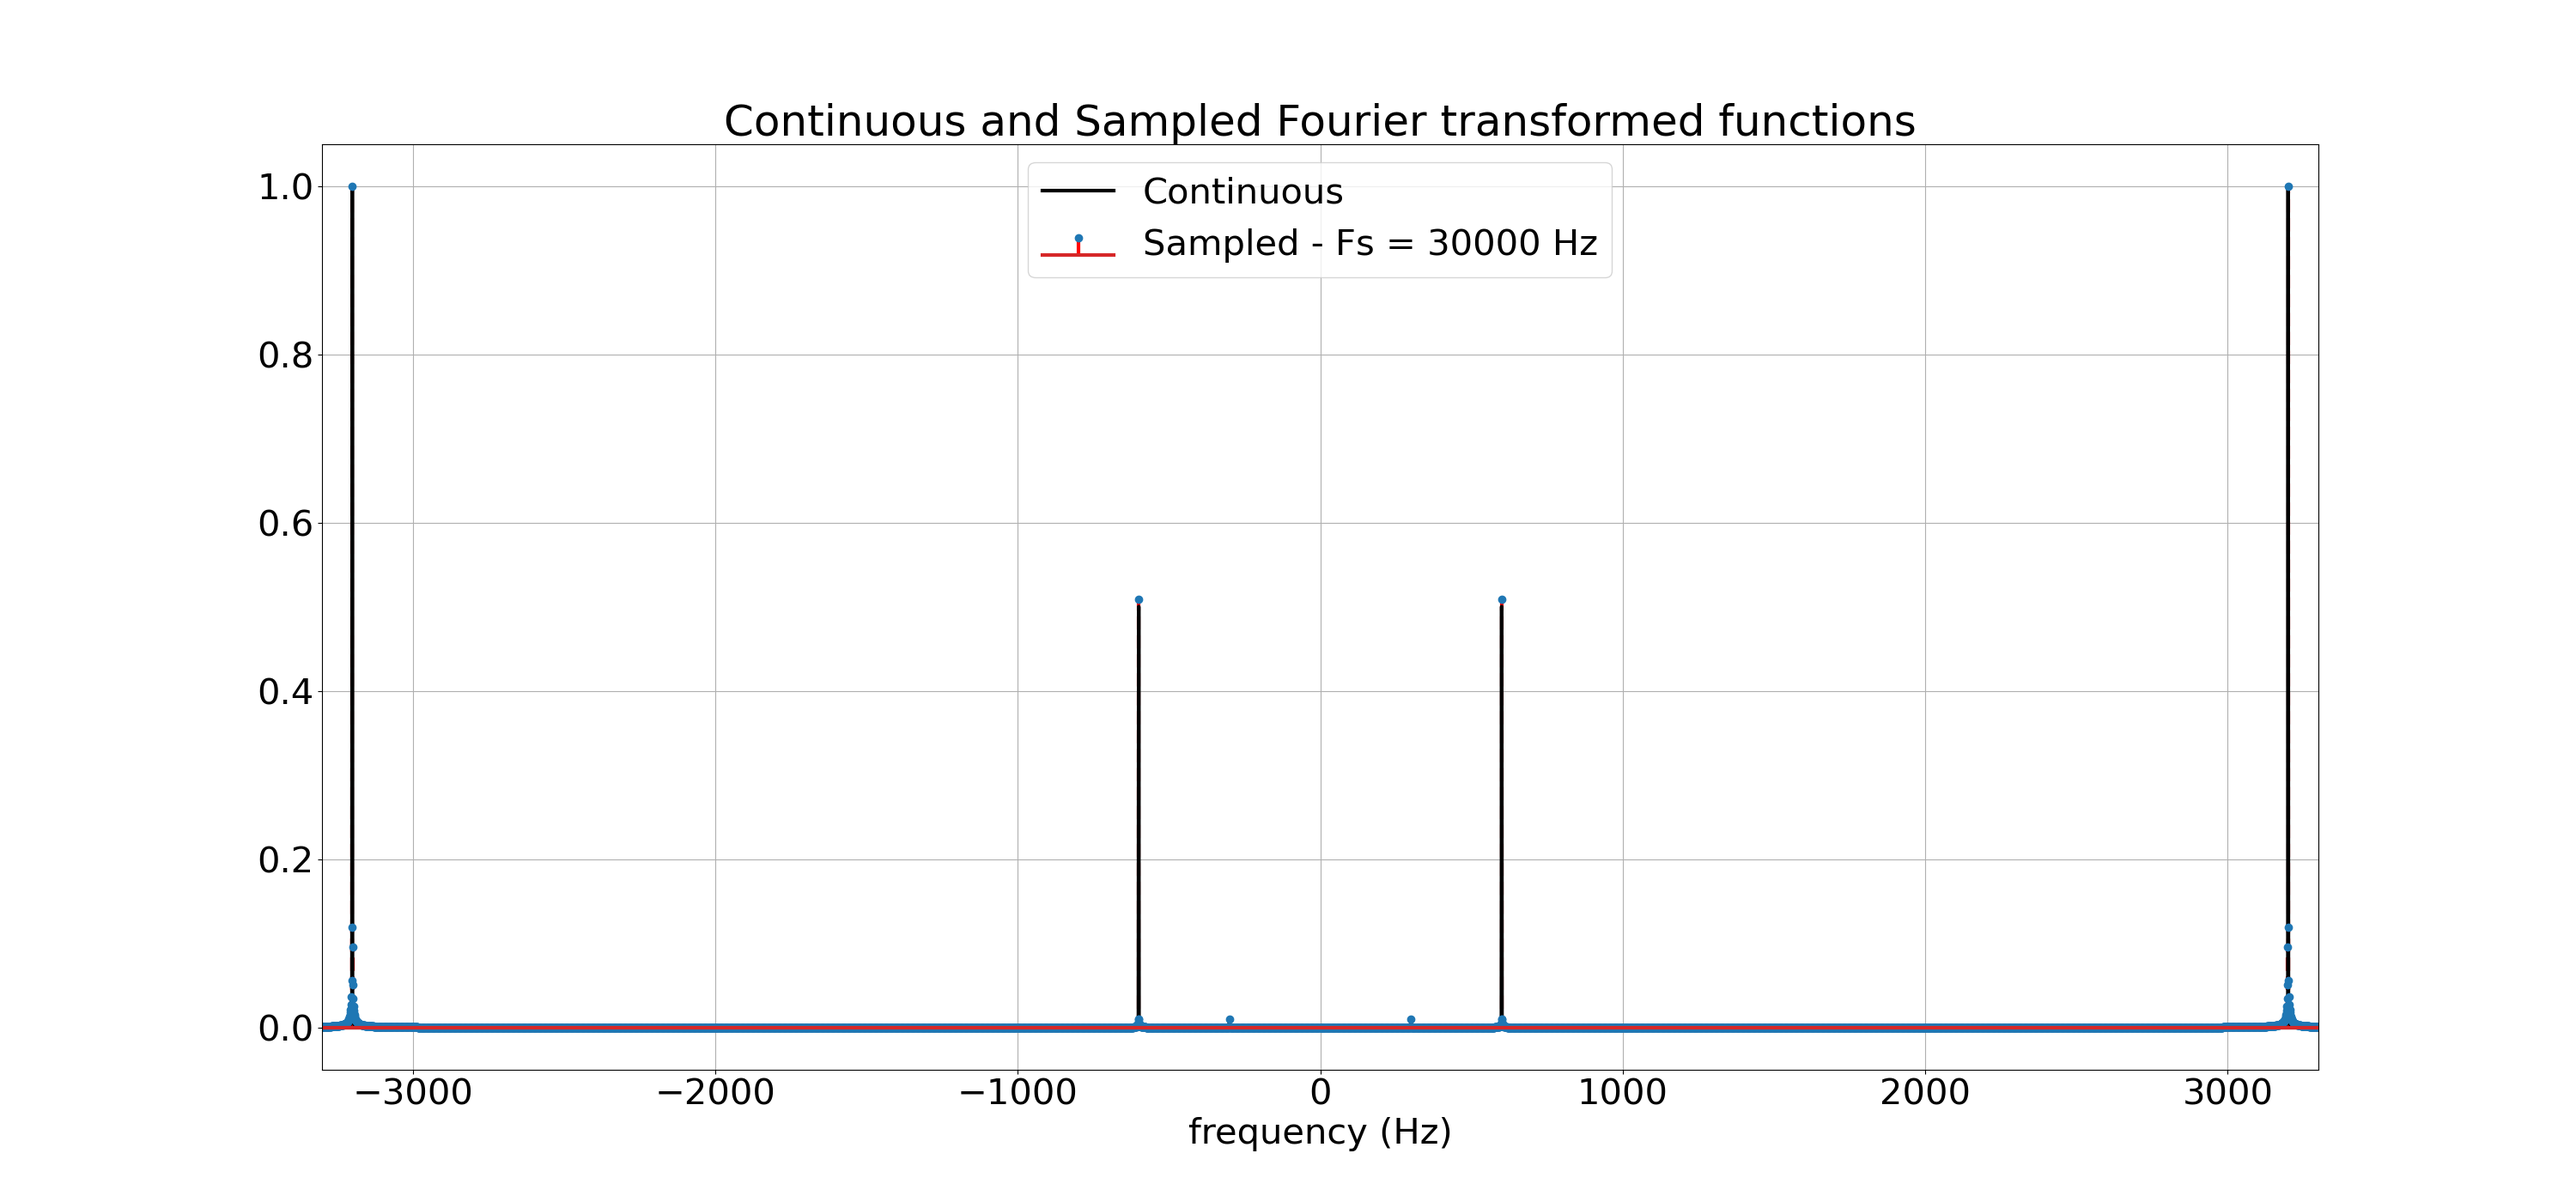
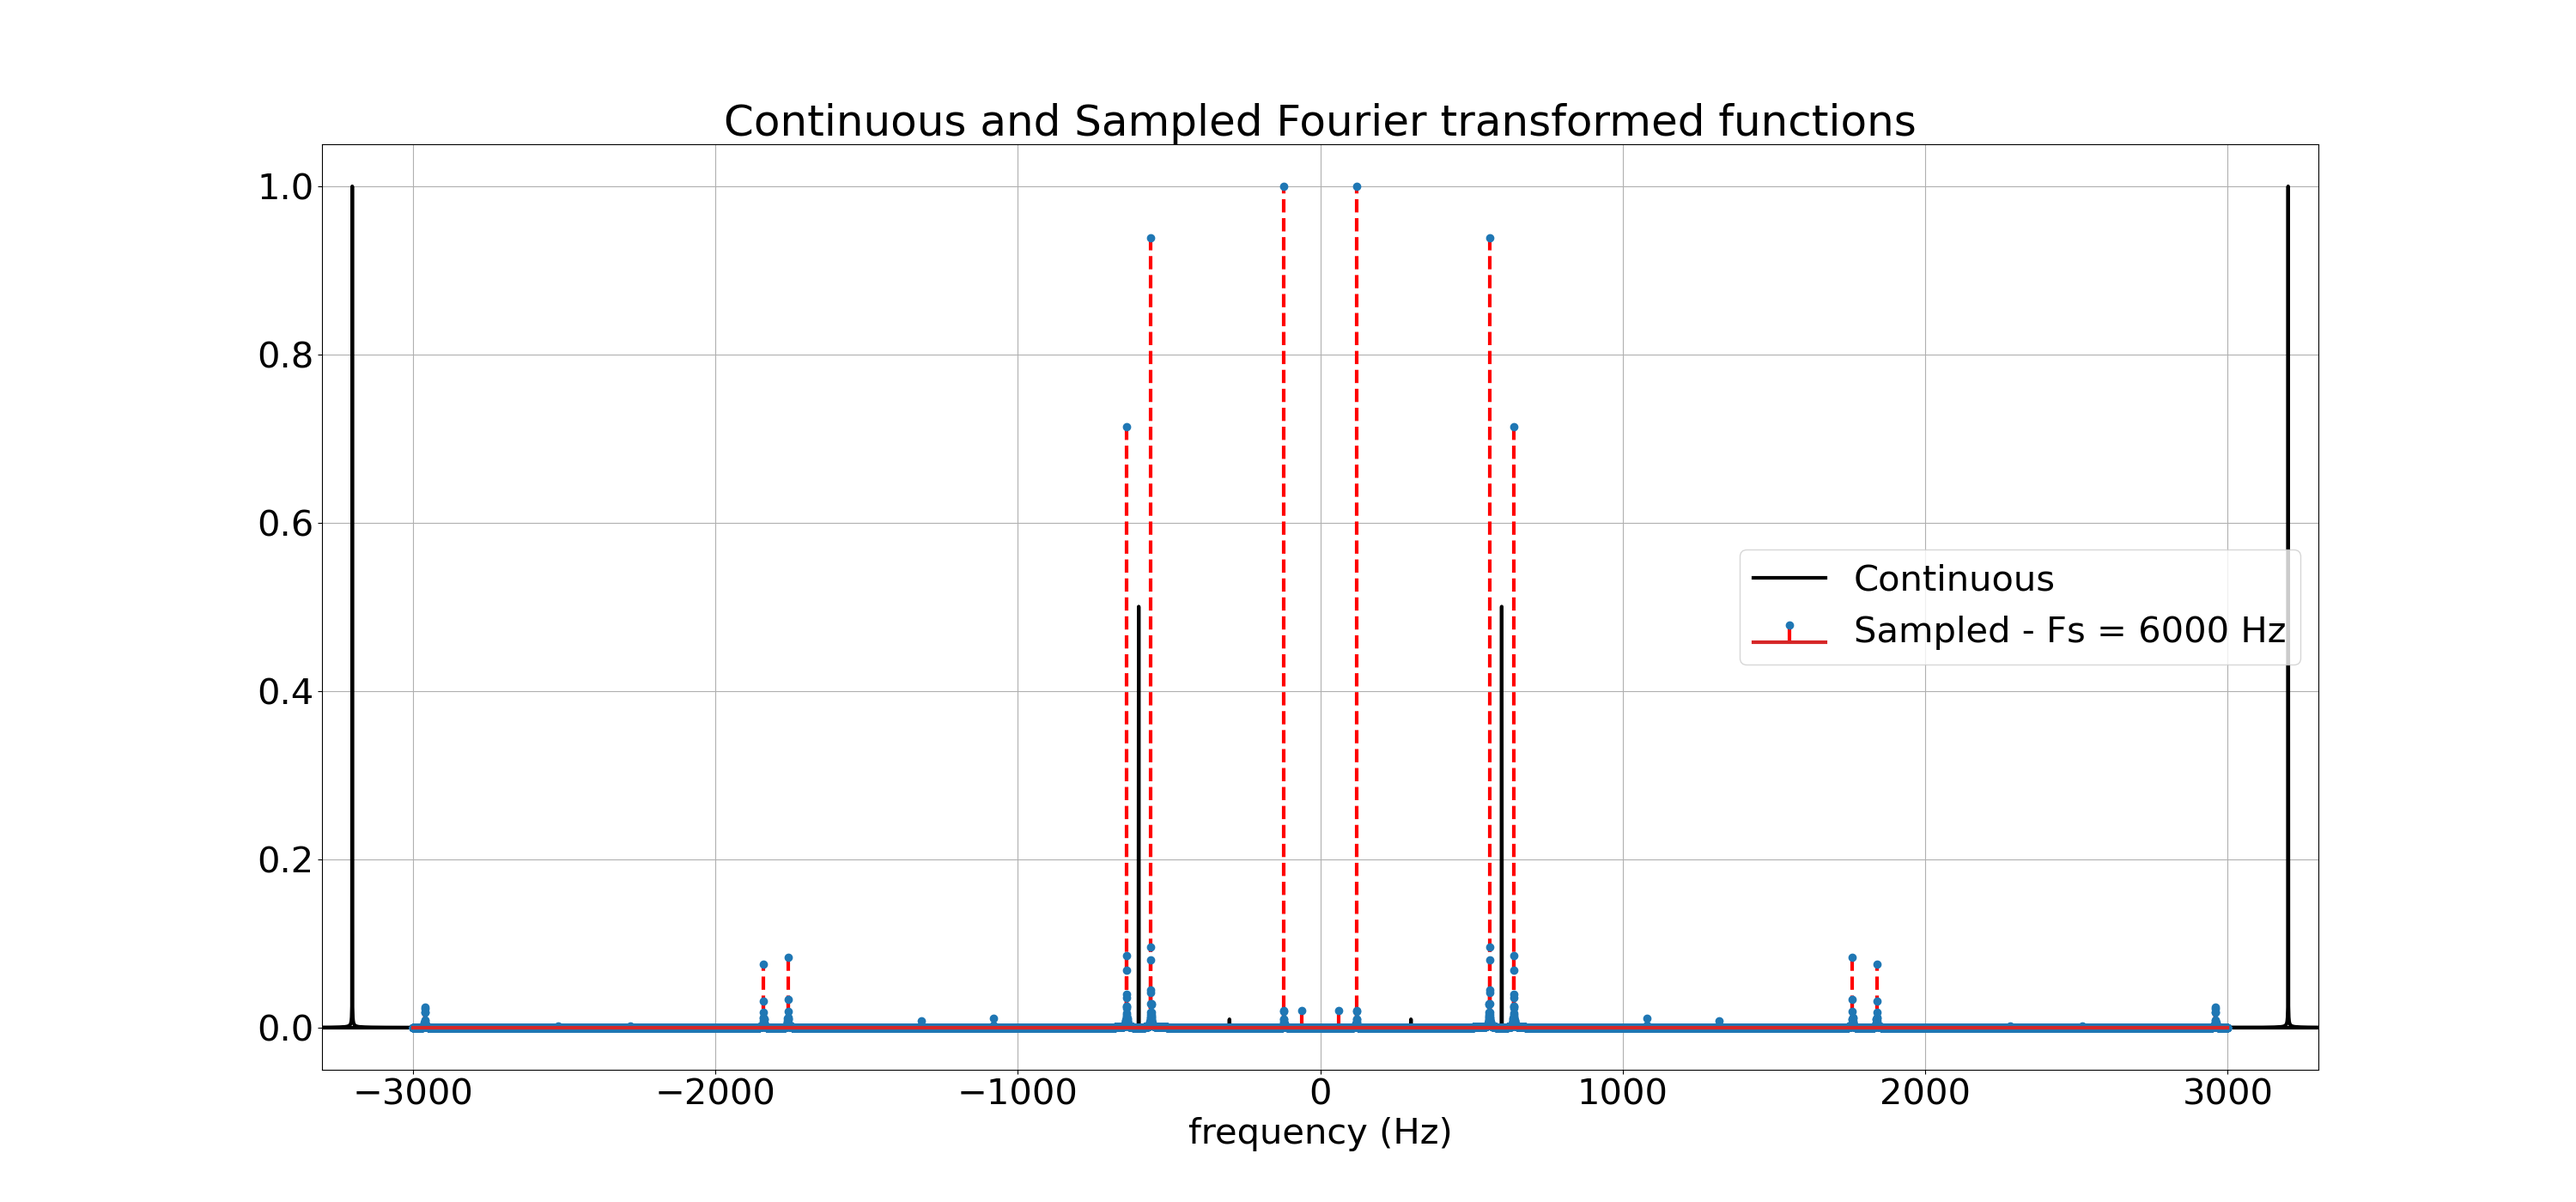
Correção questão 4 - uso de sinais interpolados

diff --git a/python/questao4/questao_4.py b/python/questao4/questao_4.py
@@ -11,11 +11,17 @@ t = sp.symbols('t')
 f = sp.cos(2*np.pi*3200*t) + 0.5*sp.cos(2*np.pi*600*t) + 0.01*sp.cos(2*np.pi*300*t)
 x = sp.lambdify(t,f,'numpy')
 #%% Continuous
-M = 10
-Fs = int(6000*M)
+Fs = 6000
 Ts = 1/Fs
 t_sampled = np.linspace(0,1,Fs)
 x_sampled = x(t_sampled)
+
+#%% Interpolation
+M = 10
+Fs_interpoled = int(Fs*M)
+T_interpoled = 1/Fs_interpoled
+T_interpoled = np.linspace(0,1,Fs_interpoled)
+x_interpoled = np.interp(T_interpoled,t_sampled,x_sampled)
 
 #%% Sampled
 F = 20*6400
@@ -29,11 +35,11 @@ y_continuous = np.abs(y_continuous)/np.max(np.abs(y_continuous))
 nc = x_continuous.size
 freq_continuous = np.fft.fftfreq(nc,d=T)#*T*2*pi
 
-# %% FFT sampled
-y_sampled = np.fft.fft(x_sampled)
-y_sampled = np.abs(y_sampled)/np.max(np.abs(y_sampled))
-n = x_sampled.size
-freq_sampled = np.fft.fftfreq(n,d=Ts)#*Ts*2*pi
+# %% FFT interpoled
+y_interpoled = np.fft.fft(x_interpoled)
+y_interpoled = np.abs(y_interpoled)/np.max(np.abs(y_interpoled))
+n = x_interpoled.size
+freq_interpoled = np.fft.fftfreq(n,d=Ts)#*Ts*2*pi
 
 #%% plot FFT continuous
 fig = plt.figure()
@@ -47,22 +53,22 @@ fig.savefig(path+'fft_continuous.png')
 
 #%% plot FFT sampled
 fig = plt.figure()
-plt.stem(freq_sampled,y_sampled)
+plt.stem(freq_interpoled,y_interpoled)
 #plt.xticks(np.arange(-pi,pi+1,pi/2),labels)
 #plt.xlim([-3200-100,3200+100])
 plt.grid(True)
 plt.xlabel('frequency (Hz)')
 plt.title('Sampled Fourier transformed function')
 plt.legend(['Fs = '+str(Fs)+' Hz'])
-fig.savefig(path+'fft_sampled_Fs_'+str(Fs)+'Hz.png')
+fig.savefig(path+'fft_sampled_Fs_'+str(Fs_interpoled)+'Hz.png')
 #%%
 fig = plt.figure()
 plt.plot(freq_continuous,y_continuous,'k-')
-plt.stem(freq_sampled,y_sampled,'r--')
+plt.stem(freq_interpoled,y_interpoled,'r--')
 #plt.xticks(np.arange(-pi,pi+1,pi/2),labels)
 plt.xlim([-3200-100,3200+100])
 plt.xlabel('frequency (Hz)')
 plt.title('Continuous and Sampled Fourier transformed functions')
 plt.grid(True)
 plt.legend(['Continuous','Sampled - Fs = '+str(Fs)+' Hz'])
-fig.savefig(path+'fft_both_Fs_'+str(Fs)+'Hz.png')
+fig.savefig(path+'fft_both_Fs_'+str(Fs_interpoled)+'Hz.png')
